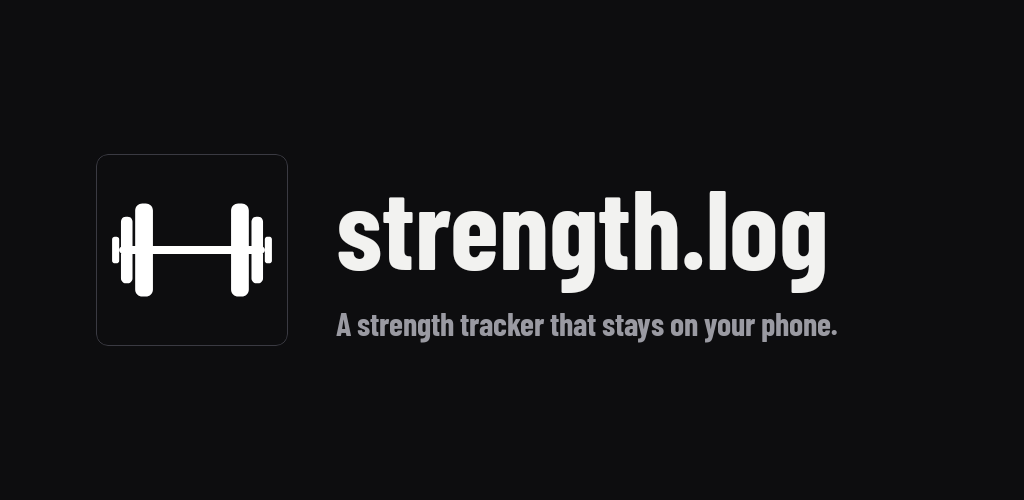
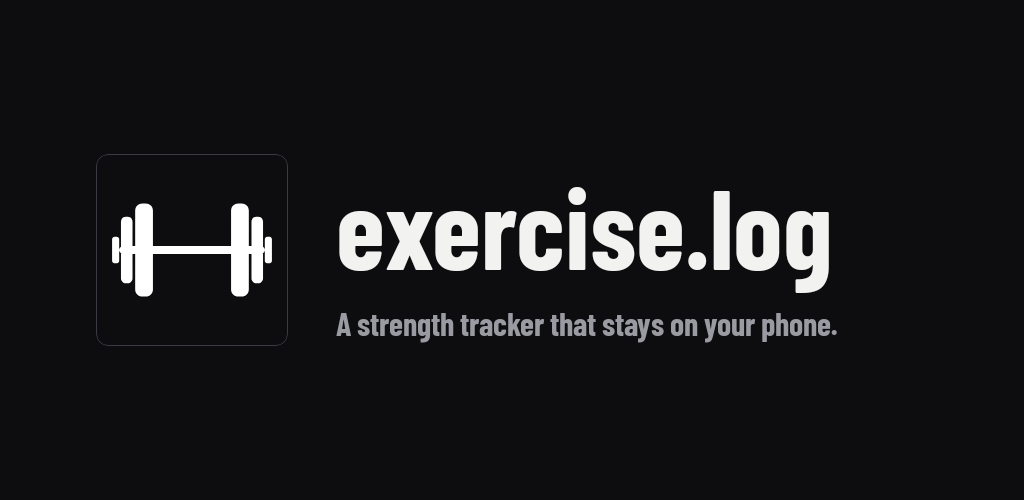
Rename the app to exercise.log (#403)
* Rename the app to exercise.log

The visible name changes everywhere a person reads it: the launcher and
watch app name, the Health Connect rationale, the share card's wordmark
(now read from app_name), suggested export file names, the Play listing
text and the current docs. The package, class names, Gradle properties,
watch sync paths, stored file names and backup format keep the old name,
so installs, the watch and old backups carry on unchanged.

Claude-Session: https://claude.ai/code/session_013SDEdHn4A2VXPEaCxejB7d

* Watch loading wordmark reads exercise.log

Claude-Session: https://claude.ai/code/session_013SDEdHn4A2VXPEaCxejB7d

* Refresh the feature graphic with the new name

Rendered by CI's ListingImagesTest (run 41468497838).

Claude-Session: https://claude.ai/code/session_013SDEdHn4A2VXPEaCxejB7d

---------

Changed region(s): [[0.3125, 0.36, 0.8125, 0.6]]

diff --git a/app/src/test/kotlin/cloud/trotter/log/strength/ui/text/UiTextMappingTest.kt b/app/src/test/kotlin/cloud/trotter/log/strength/ui/text/UiTextMappingTest.kt
@@ -33,8 +33,8 @@ class UiTextMappingTest {
             BackupErrorKind.RESTORE_NOT_STARTED to "Couldn't start the restore. Nothing changed — try again.",
             BackupErrorKind.SETTINGS_PENDING to "Your data restored, but your settings didn't. Reopen the app and it'll finish.",
             BackupErrorKind.CLEANUP_PENDING to "Backup restored. A bit of tidying up is left; the app will finish it.",
-            BackupErrorKind.BACKUP_TOO_LARGE to "That file is too large to be a strength-log backup (detail bytes).",
-            BackupErrorKind.BACKUP_MALFORMED to "That file isn't a strength-log backup (not valid JSON, or the wrong shape).",
+            BackupErrorKind.BACKUP_TOO_LARGE to "That file is too large to be an exercise.log backup (detail bytes).",
+            BackupErrorKind.BACKUP_MALFORMED to "That file isn't an exercise.log backup (not valid JSON, or the wrong shape).",
             BackupErrorKind.UNSUPPORTED_SCHEMA to "That backup was written by a version of the app this build can't read.",
             BackupErrorKind.INVALID_PAYLOAD to "That backup contains data this build can't decode — it may be corrupt.",
             BackupErrorKind.DANGLING_EXERCISE to "That backup references an exercise (detail) it doesn't define.",

diff --git a/app/src/main/kotlin/cloud/trotter/log/strength/ui/AppNavHost.kt b/app/src/main/kotlin/cloud/trotter/log/strength/ui/AppNavHost.kt
@@ -636,9 +636,9 @@ private fun BackupRoute(onBack: () -> Unit, viewModel: BackupViewModel = hiltVie
             onAutomaticBackupChange = { enabled ->
                 if (enabled) automaticBackupFolderLauncher.launch(null) else viewModel.disableAutomaticBackup()
             },
-            onExportBackupClick = { exportBackupLauncher.launch("strength-log-backup-$today.json") },
+            onExportBackupClick = { exportBackupLauncher.launch("exercise-log-backup-$today.json") },
             onImportBackupClick = { importBackupLauncher.launch(arrayOf("application/json")) },
-            onExportCsvClick = { exportCsvLauncher.launch("strength-log-history-$today.csv") },
+            onExportCsvClick = { exportCsvLauncher.launch("exercise-log-history-$today.csv") },
             onImportCsvClick = { importCsvLauncher.launch(arrayOf("text/csv", "text/comma-separated-values", "text/plain")) },
             onConfirmRestore = viewModel::confirmRestore,
             onCancelRestore = viewModel::cancelRestore,

diff --git a/wear/src/main/kotlin/cloud/trotter/log/strength/wear/ui/LoadingDial.kt b/wear/src/main/kotlin/cloud/trotter/log/strength/wear/ui/LoadingDial.kt
@@ -81,7 +81,7 @@ internal fun LoadingDial(
         if (state == LoadingDialState.LOADING) {
             Box(contentAlignment = Alignment.Center) {
                 Row {
-                    Text("strength", style = type.band, color = TextSecondary, maxLines = 1)
+                    Text("exercise", style = type.band, color = TextSecondary, maxLines = 1)
                     Text(".", style = type.band, color = accent, maxLines = 1)
                     Text("log", style = type.band, color = TextSecondary, maxLines = 1)
                 }

diff --git a/app/src/main/kotlin/cloud/trotter/log/strength/ui/log/share/ShareCardPainter.kt b/app/src/main/kotlin/cloud/trotter/log/strength/ui/log/share/ShareCardPainter.kt
@@ -104,7 +104,7 @@ object ShareCardPainter {
         }
 
         canvas.drawText(content.footerLine, left, FOOTER_Y, textPaint(semibold, FOOTER_SIZE, DarkTextSecondary.toArgb()))
-        canvas.drawText("strength.log", left, WORDMARK_Y, textPaint(medium, WORDMARK_SIZE, DarkTextSecondary.toArgb()))
+        canvas.drawText(context.getString(R.string.app_name), left, WORDMARK_Y, textPaint(medium, WORDMARK_SIZE, DarkTextSecondary.toArgb()))
 
         return bitmap
     }

diff --git a/docs/privacy.md b/docs/privacy.md
@@ -2,13 +2,13 @@
 
 **Last updated: October 13, 2026**
 
-strength.log is a strength-training tracker for Android and Wear OS. This
+exercise.log is a strength-training tracker for Android and Wear OS. This
 page explains what the app does and doesn't do with your data. It's short
 because there isn't much to say: the app doesn't collect anything.
 
 ## The short version
 
-- strength.log has no accounts, no ads, and no analytics.
+- exercise.log has no accounts, no ads, and no analytics.
 - The app does not request the Android INTERNET permission, so it cannot
   send data over the internet, to us or to anyone else.
 - Everything you enter — your program, your workout history, your custom
@@ -32,7 +32,7 @@ nothing to the developer or to any server.
 
 ## Health Connect
 
-If you choose to connect strength.log to Health Connect (Android's on-device
+If you choose to connect exercise.log to Health Connect (Android's on-device
 health data broker), you do it from the "Connect Health Connect" card in the
 History screen. The app then asks for four permissions in one system dialog, and
 you can allow or deny each one separately:
@@ -59,7 +59,7 @@ access at any time from Health Connect's own settings.
 
 ## Backups and exports
 
-strength.log can export a full backup (JSON) or your workout history (CSV).
+exercise.log can export a full backup (JSON) or your workout history (CSV).
 Both are created only when you tap the export button, and both go exactly
 where you tell them to via Android's share sheet / Storage Access
 Framework — your device storage, a cloud drive you've connected, wherever
@@ -73,7 +73,7 @@ If you turn on automatic backup, the app writes its backup file to a folder you 
 same Storage Access Framework grant. It is one file, overwritten each time,
 roughly once a day; Android schedules it, so not at a fixed time. What happens to that folder is between you and whatever
 owns it — if you picked a folder that a cloud app syncs, that app's rules
-apply, not ours; strength.log itself still cannot send anything over the internet. Turning
+apply, not ours; exercise.log itself still cannot send anything over the internet. Turning
 automatic backup off (or revoking the folder) stops the writing.
 
 ## Sharing a workout
@@ -81,7 +81,7 @@ automatic backup off (or revoking the folder) stops the writing.
 Finishing a day offers a share card: an image rendered entirely on your
 device. It shows the date, the day's letter and title, up to six lifts with
 the heaviest set of each, total sets, duration (if recorded), total volume, and
-the strength.log wordmark. It does not include your bodyweight, goals or
+the exercise.log wordmark. It does not include your bodyweight, goals or
 notes. You can also make one from any past session in History. Tapping share hands that image to Android's share sheet, and *you* choose
 where it goes: a messaging app, your photos, nowhere. The app draws the
 picture; the sending is done by the app you pick, under that app's policies.
@@ -97,7 +97,7 @@ you saved elsewhere are yours to delete.
 
 ## Children's privacy
 
-strength.log doesn't collect any data from anyone, so there's nothing to say
+exercise.log doesn't collect any data from anyone, so there's nothing to say
 here beyond that: the app is not directed at children and does not collect
 personal information from any user, of any age.
 

diff --git a/docs/play-data-safety.md b/docs/play-data-safety.md
@@ -9,7 +9,7 @@ privacy policy is the one Play links to and users actually read.
 
 **No.**
 
-strength.log does not request the INTERNET permission, has no backend, no analytics SDK, and no
+exercise.log does not request the INTERNET permission, has no backend, no analytics SDK, and no
 third-party SDKs that collect data. (Libraries such as WorkManager add
 ACCESS_NETWORK_STATE, RECEIVE_BOOT_COMPLETED, WAKE_LOCK and FOREGROUND_SERVICE;
 the app never opens a network connection.) Phone-to-watch sync uses Google Play
@@ -43,12 +43,12 @@ Per-category form answers, for reference:
 | Device or other IDs | No | No | — |
 
 \* "Collected" in Play's sense means transmitted off-device to the developer
-or a third party. strength.log never does this. See the next section for
+or a third party. exercise.log never does this. See the next section for
 what actually happens with health data.
 
 ## Health Connect (declared separately, per Play's Health Connect policy)
 
-strength.log integrates with Health Connect, Android's on-device health data
+exercise.log integrates with Health Connect, Android's on-device health data
 broker, for four permissions. They are requested together in one system dialog
 from the "Connect Health Connect" card in the Log screen, and the user can
 allow or deny each one individually:
@@ -65,7 +65,7 @@ allow or deny each one individually:
   past year; if it differs, the Log offers to update the user's bodyweight and
   recompute goals, and nothing changes until the user taps.
 
-None of this data leaves the device through strength.log. Health Connect
+None of this data leaves the device through exercise.log. Health Connect
 itself is on-device IPC (not a network service), and the user grants or
 revokes each permission independently from Health Connect's own settings at
 any time. The app remains fully functional with none, some, or all of these

diff --git a/DESIGN.md b/DESIGN.md
@@ -1,6 +1,6 @@
 # DESIGN.md
 
-Project direction for the `ux-design` skill and any agent designing strength.log's phone or
+Project direction for the `ux-design` skill and any agent designing exercise.log's phone or
 watch interface. It points at the documents that hold the detail. `docs/PLAN.md` beats
 `STRENGTH_TRACKER_SPEC.md`, and a later brief beats an earlier one it names.
 
@@ -9,7 +9,7 @@ Only "Hard constraints" is fixed. Everything else, including the palette, the di
 
 ## Product and user
 
-strength.log is a paid, local-first strength tracker for Android phones with a Wear OS
+exercise.log is a paid, local-first strength tracker for Android phones with a Wear OS
 companion: no account, no ads, no network permission (spec §1, PLAN "Locked decisions"). The
 reference user is about forty and trains for maintenance and health, not records. Their
 schedule is unreliable and sessions get missed. They train in a gym, usually alone. During a

diff --git a/README.md b/README.md
@@ -1,4 +1,4 @@
-# strength.log
+# exercise.log
 
 A local-first strength-training tracker for Android and Wear OS. A short setup
 wizard builds a training plan around your bodyweight, age and experience, and
@@ -42,5 +42,5 @@ Pure-Kotlin `:domain` module with pinned verification tests.
 Copyright © 2026 Stephen Trotter. GPL-3.0-or-later — see [`LICENSE`](LICENSE).
 Fork it, build it, learn from it; derivatives stay under the same license.
 
-The strength.log name and launcher icon are not part of the license grant. If
+The exercise.log name and launcher icon are not part of the license grant. If
 you distribute a fork, give it its own name and icon.

diff --git a/docs/index.md b/docs/index.md
@@ -1,6 +1,6 @@
-# strength.log
+# exercise.log
 
-strength.log is a local-first strength-training tracker for Android and Wear OS. It builds a rotation from your bodyweight, age and experience, keeps everything on your device, and has no account and no ads.
+exercise.log is a local-first strength-training tracker for Android and Wear OS. It builds a rotation from your bodyweight, age and experience, keeps everything on your device, and has no account and no ads.
 
 - [Privacy policy](privacy)
 - [Source code on GitHub](https://github.com/sjtrotter/strength-log)
